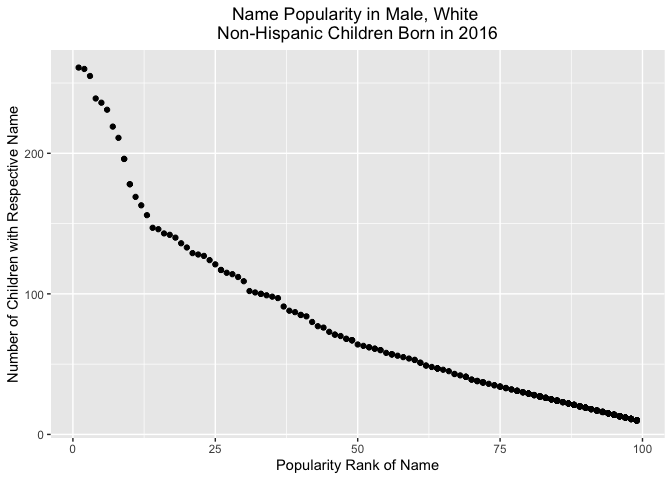
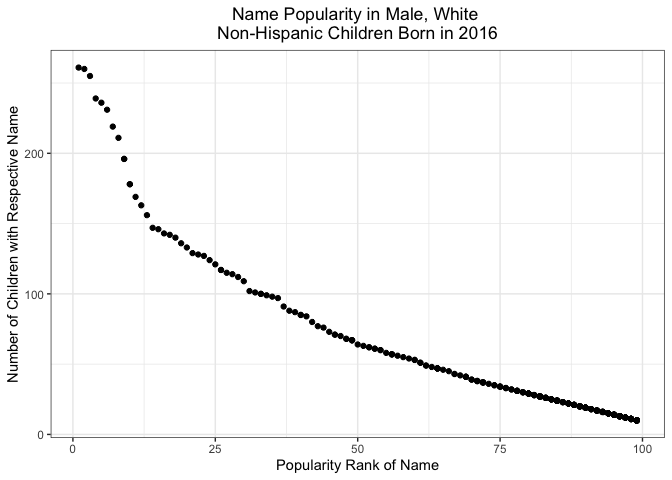
cleaned up scatterplot

diff --git a/p8105_hw2_pk2711.md b/p8105_hw2_pk2711.md
@@ -188,7 +188,14 @@ male_2016_df = baby_name_df %>%
          ethnicity == "white non hispanic",
          year_of_birth == "2016")
 
-ggplot(male_2016_df, aes(x = rank, y = count)) + labs(x = "Popularity Rank of Name", y = "Number of Children with Respective Name") + ggtitle("Name Popularity in Male, White \nNon-Hispanic Children Born in 2016") + theme(plot.title = element_text(hjust = 0.5)) + geom_point()
+ggplot(male_2016_df, aes(x = rank, y = count)) + 
+  labs(
+    title = "Name Popularity in Male, White \nNon-Hispanic Children Born in 2016",
+    x = "Popularity Rank of Name", 
+    y = "Number of Children with Respective Name") + 
+  theme_bw() +
+  theme(plot.title = element_text(hjust = 0.5)) + 
+  geom_point()
 ```
 
 ![](p8105_hw2_pk2711_files/figure-gfm/unnamed-chunk-13-1.png)<!-- -->
